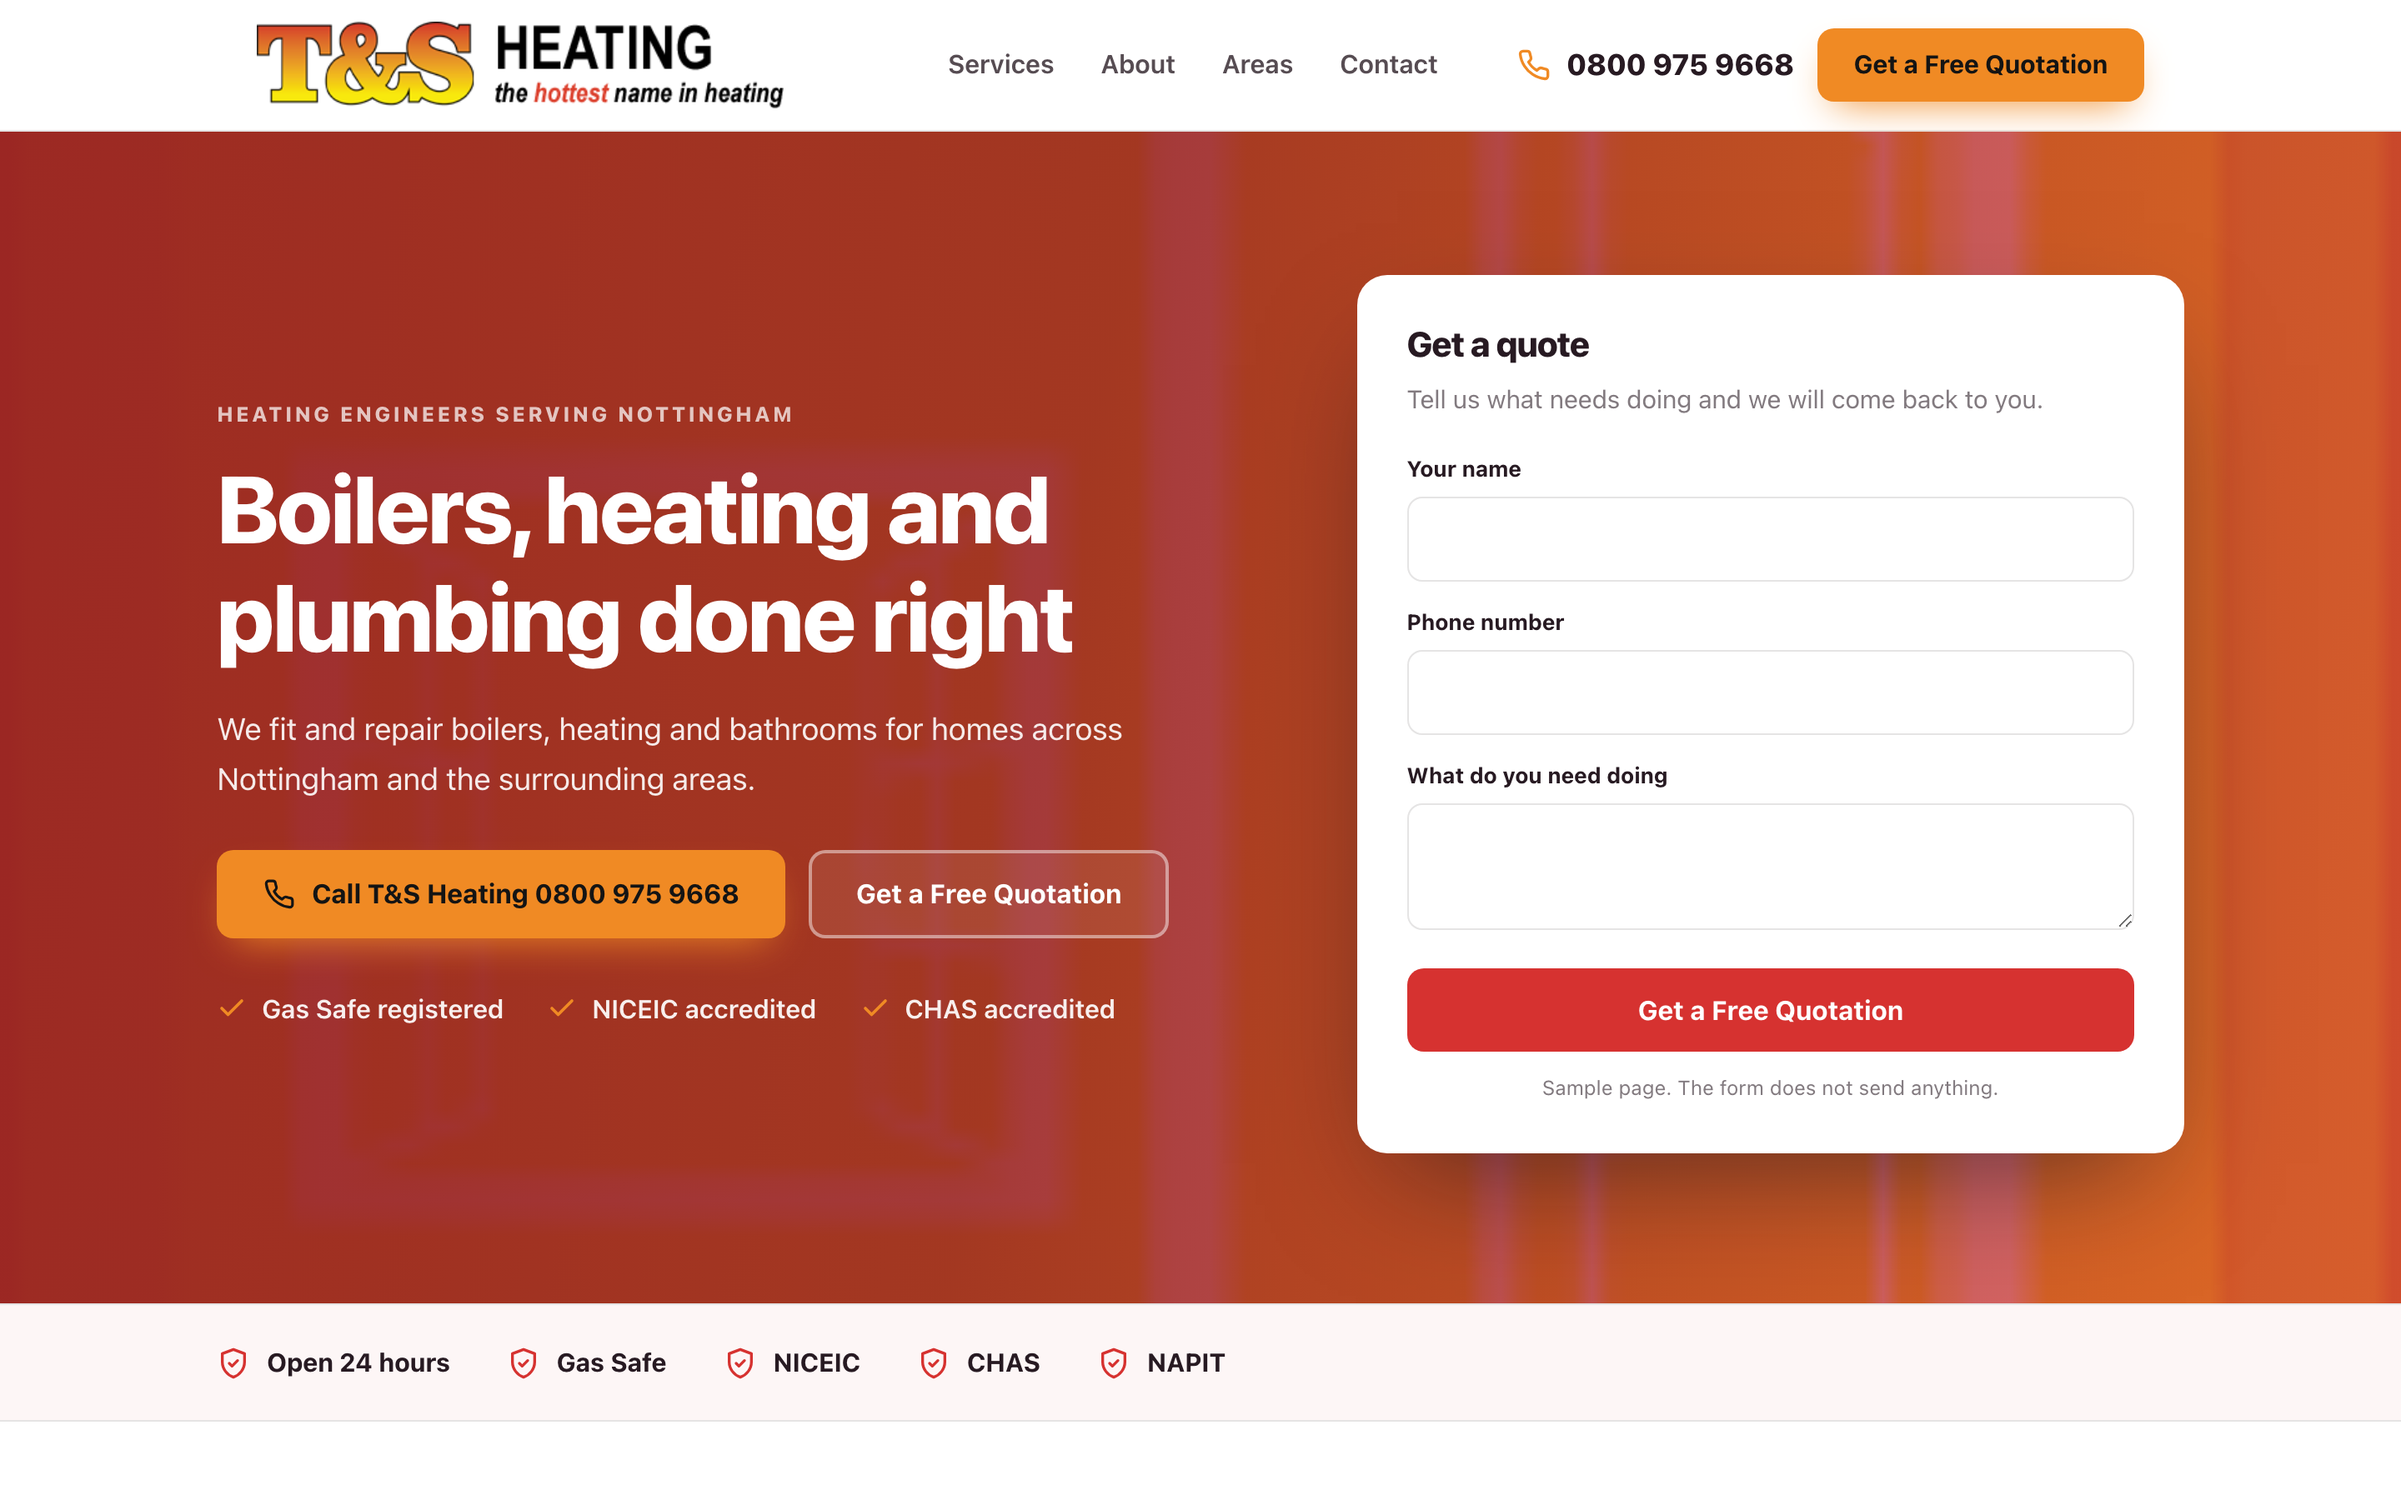
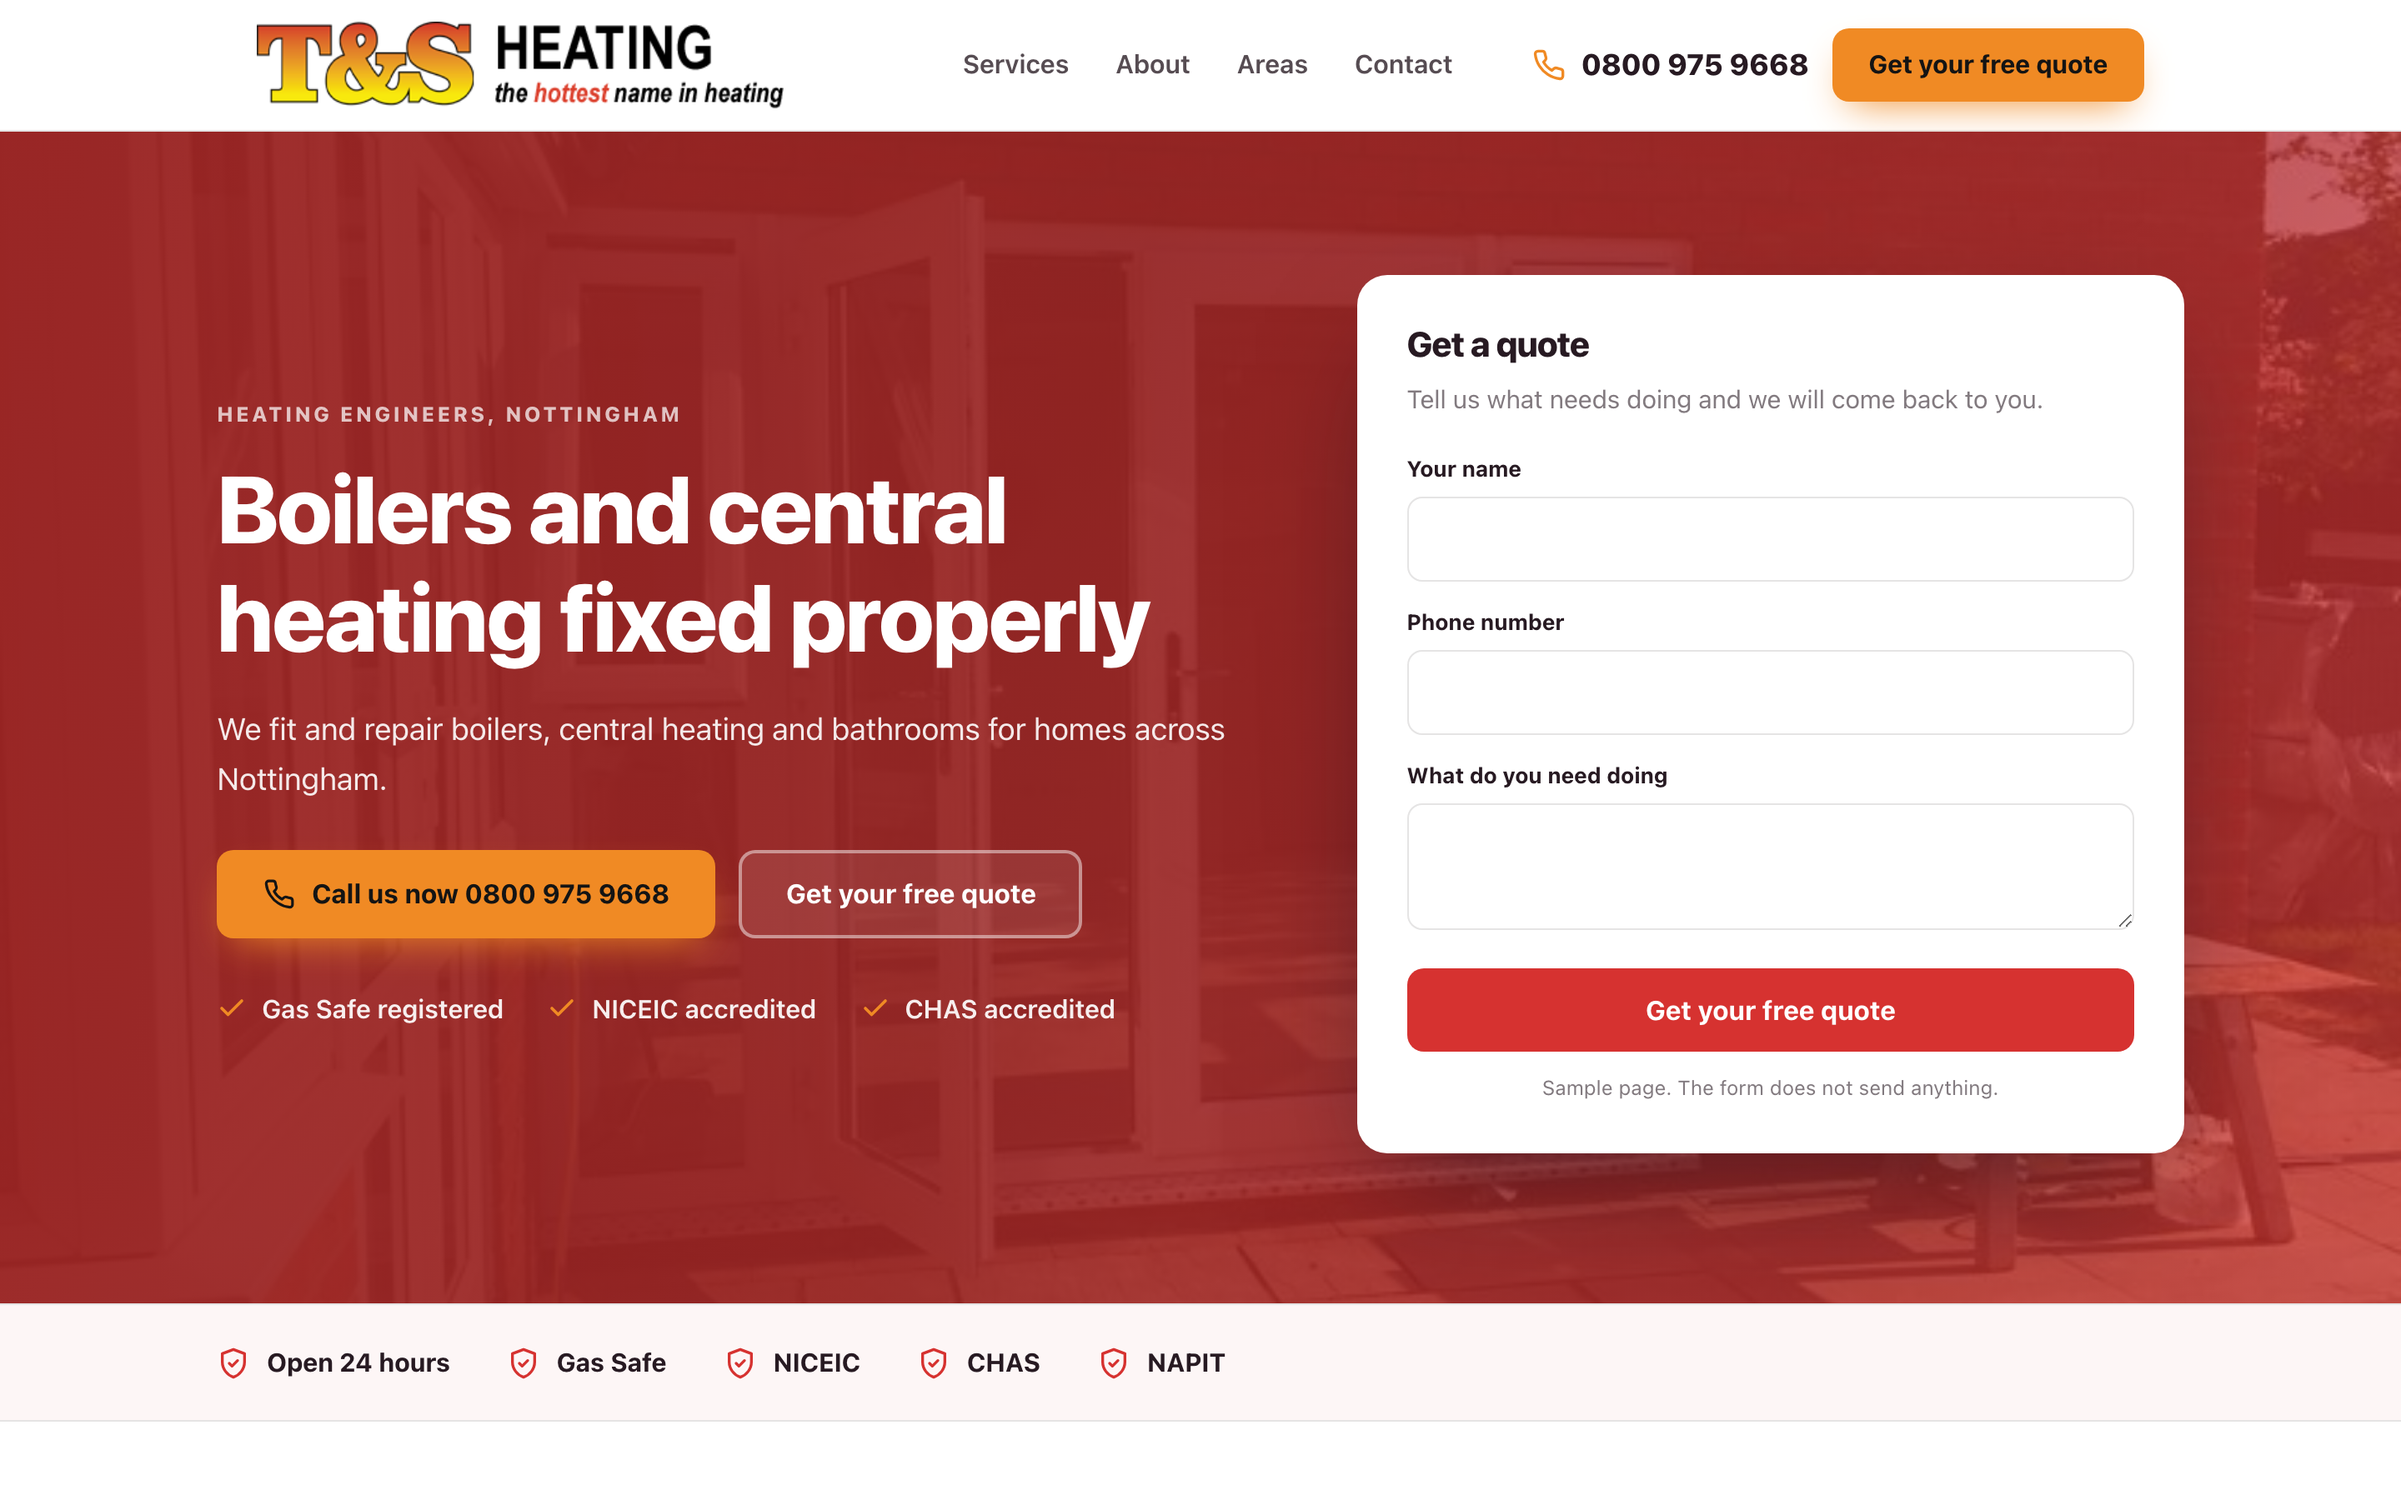
Sample homepage for T&S Heating Ltd

diff --git a/docs/2cc8a2258e/index.html b/docs/2cc8a2258e/index.html
@@ -4,14 +4,15 @@
 <meta charset="utf-8">
 <meta name="viewport" content="width=device-width, initial-scale=1">
 <meta name="robots" content="noindex,nofollow">
-<title>T&amp;S Heating sample homepage</title>
-<meta name="description" content="We fit and repair boilers, heating and bathrooms for homes across Nottingham and the surrounding areas.">
+<meta name="aso-build" content="">
+<title>T&amp;S Heating Ltd sample homepage</title>
+<meta name="description" content="We fit and repair boilers, central heating and bathrooms for homes across Nottingham.">
 <link rel="canonical" href="https://markygff.github.io/aso-mockups/2cc8a2258e/">
 <meta property="og:type" content="website">
-<meta property="og:title" content="T&amp;S Heating sample homepage">
-<meta property="og:description" content="We fit and repair boilers, heating and bathrooms for homes across Nottingham and the surrounding areas.">
+<meta property="og:title" content="T&amp;S Heating Ltd sample homepage">
+<meta property="og:description" content="We fit and repair boilers, central heating and bathrooms for homes across Nottingham.">
 <meta property="og:url" content="https://markygff.github.io/aso-mockups/2cc8a2258e/">
-<meta property="og:image" content="https://www.tsheating.co.uk/admin/resources/windowsdoors-w400.png"><style>
+<meta property="og:image" content="img/p36.jpg"><style>
 :root{
   --primary:#d63230;
   --primary-dark:#9a2423;
@@ -52,7 +53,8 @@ p{margin:0}
 .nav{display:flex;gap:28px;margin-left:auto;font-weight:600;font-size:.97rem;color:var(--ink)}
 .nav span{opacity:.78}
 .header-cta{display:flex;align-items:center;gap:14px;margin-left:28px}
-.tel{display:flex;align-items:center;gap:9px;font-weight:800;font-size:1.1rem;color:var(--ink)}
+.tel{display:flex;align-items:center;gap:9px;font-weight:800;font-size:1.1rem;
+     color:var(--ink);text-decoration:none}
 .tel svg{width:20px;height:20px;color:var(--accent)}
 .header-cta .btn{padding:12px 20px;font-size:.95rem}
 
@@ -119,27 +121,27 @@ p{margin:0}
 <header class="header">
   <div class="wrap header-in">
     <div class="brand">
-<img src="https://www.tsheating.co.uk/images/ts-logo-2.png" alt="T&amp;S Heating logo">    </div>
+<img src="img/logo.png" alt="T&amp;S Heating Ltd logo">    </div>
     <nav class="nav">
       <span>Services</span><span>About</span><span>Areas</span><span>Contact</span>
     </nav>
     <div class="header-cta">
-      <span class="tel"><svg viewBox="0 0 24 24" fill="none" stroke="currentColor" stroke-width="2" stroke-linecap="round" stroke-linejoin="round" aria-hidden="true"><path d="M22 16.9v3a2 2 0 0 1-2.2 2 19.8 19.8 0 0 1-8.6-3.1 19.5 19.5 0 0 1-6-6 19.8 19.8 0 0 1-3.1-8.7A2 2 0 0 1 4.1 2h3a2 2 0 0 1 2 1.7c.1 1 .4 1.9.7 2.8a2 2 0 0 1-.5 2.1L8.1 9.9a16 16 0 0 0 6 6l1.3-1.2a2 2 0 0 1 2.1-.5c.9.3 1.8.6 2.8.7a2 2 0 0 1 1.7 2z"/></svg><span>0800 975 9668</span></span>
-      <span class="btn btn-accent">Get a Free Quotation</span>
+      <a class="tel" href="tel:+448009759668"><svg viewBox="0 0 24 24" fill="none" stroke="currentColor" stroke-width="2" stroke-linecap="round" stroke-linejoin="round" aria-hidden="true"><path d="M22 16.9v3a2 2 0 0 1-2.2 2 19.8 19.8 0 0 1-8.6-3.1 19.5 19.5 0 0 1-6-6 19.8 19.8 0 0 1-3.1-8.7A2 2 0 0 1 4.1 2h3a2 2 0 0 1 2 1.7c.1 1 .4 1.9.7 2.8a2 2 0 0 1-.5 2.1L8.1 9.9a16 16 0 0 0 6 6l1.3-1.2a2 2 0 0 1 2.1-.5c.9.3 1.8.6 2.8.7a2 2 0 0 1 1.7 2z"/></svg><span>0800 975 9668</span></a>
+      <span class="btn btn-accent">Get your free quote</span>
     </div>
   </div>
 </header>
 
 <section class="hero">
-  <div class="hero-bg"><img src="https://www.tsheating.co.uk/admin/resources/windowsdoors-w400.png" alt="T&amp;S Heating at work" width="1600" height="900"></div>
+  <div class="hero-bg"><img src="img/p36.jpg" alt="T&amp;S Heating Ltd at work" width="1600" height="900"></div>
   <div class="wrap hero-in">
     <div>
-      <p class="eyebrow">Heating engineers serving Nottingham</p>
-      <h1>Boilers, heating and plumbing done right</h1>
-      <p class="hero-sub">We fit and repair boilers, heating and bathrooms for homes across Nottingham and the surrounding areas.</p>
+      <p class="eyebrow">Heating engineers, Nottingham</p>
+      <h1>Boilers and central heating fixed properly</h1>
+      <p class="hero-sub">We fit and repair boilers, central heating and bathrooms for homes across Nottingham.</p>
       <div class="hero-actions">
-        <span class="btn btn-accent"><svg viewBox="0 0 24 24" fill="none" stroke="currentColor" stroke-width="2" stroke-linecap="round" stroke-linejoin="round" aria-hidden="true"><path d="M22 16.9v3a2 2 0 0 1-2.2 2 19.8 19.8 0 0 1-8.6-3.1 19.5 19.5 0 0 1-6-6 19.8 19.8 0 0 1-3.1-8.7A2 2 0 0 1 4.1 2h3a2 2 0 0 1 2 1.7c.1 1 .4 1.9.7 2.8a2 2 0 0 1-.5 2.1L8.1 9.9a16 16 0 0 0 6 6l1.3-1.2a2 2 0 0 1 2.1-.5c.9.3 1.8.6 2.8.7a2 2 0 0 1 1.7 2z"/></svg>Call T&amp;S Heating 0800 975 9668</span>
-        <span class="btn btn-ghost">Get a Free Quotation</span>
+        <span class="btn btn-accent"><svg viewBox="0 0 24 24" fill="none" stroke="currentColor" stroke-width="2" stroke-linecap="round" stroke-linejoin="round" aria-hidden="true"><path d="M22 16.9v3a2 2 0 0 1-2.2 2 19.8 19.8 0 0 1-8.6-3.1 19.5 19.5 0 0 1-6-6 19.8 19.8 0 0 1-3.1-8.7A2 2 0 0 1 4.1 2h3a2 2 0 0 1 2 1.7c.1 1 .4 1.9.7 2.8a2 2 0 0 1-.5 2.1L8.1 9.9a16 16 0 0 0 6 6l1.3-1.2a2 2 0 0 1 2.1-.5c.9.3 1.8.6 2.8.7a2 2 0 0 1 1.7 2z"/></svg>Call us now 0800 975 9668</span>
+        <span class="btn btn-ghost">Get your free quote</span>
       </div>
       <ul class="hero-bullets">
 <li><svg viewBox="0 0 24 24" fill="none" stroke="currentColor" stroke-width="2.4" stroke-linecap="round" stroke-linejoin="round" aria-hidden="true"><path d="M20 6 9 17l-5-5"/></svg><span>Gas Safe registered</span></li><li><svg viewBox="0 0 24 24" fill="none" stroke="currentColor" stroke-width="2.4" stroke-linecap="round" stroke-linejoin="round" aria-hidden="true"><path d="M20 6 9 17l-5-5"/></svg><span>NICEIC accredited</span></li><li><svg viewBox="0 0 24 24" fill="none" stroke="currentColor" stroke-width="2.4" stroke-linecap="round" stroke-linejoin="round" aria-hidden="true"><path d="M20 6 9 17l-5-5"/></svg><span>CHAS accredited</span></li>      </ul>
@@ -150,7 +152,7 @@ p{margin:0}
       <div class="field"><label>Your name</label><input type="text" disabled></div>
       <div class="field"><label>Phone number</label><input type="tel" disabled></div>
       <div class="field"><label>What do you need doing</label><textarea disabled></textarea></div>
-      <span class="btn btn-primary">Get a Free Quotation</span>
+      <span class="btn btn-primary">Get your free quote</span>
       <p class="sample-note">Sample page. The form does not send anything.</p>
     </div>
   </div>
@@ -170,29 +172,29 @@ p{margin:0}
   <div class="wrap">
     <div class="services-head">
       <p class="eyebrow">What we do</p>
-      <h2>T&amp;S Heating, Nottingham</h2>
-      <p>We fit and repair boilers, heating and bathrooms for homes across Nottingham and the surrounding areas.</p>
+      <h2>T&amp;S Heating Ltd, Nottingham</h2>
+      <p>We fit and repair boilers, central heating and bathrooms for homes across Nottingham.</p>
     </div>
     <div class="grid">
       <article class="card">
         <div class="icon"><svg viewBox="0 0 24 24" fill="none" stroke="currentColor" stroke-width="2" stroke-linecap="round" stroke-linejoin="round" aria-hidden="true"><path d="M14.7 6.3a4 4 0 0 0 5.3 5.3l-8 8a3 3 0 0 1-4.2-4.2z"/><path d="m14.7 6.3 3-3"/></svg></div>
         <h3>Central Heating</h3>
-        <p>We install and repair central heating systems for homes across Nottingham.</p>
+        <p>We install and repair central heating systems in homes across Nottingham.</p>
       </article>
       <article class="card">
         <div class="icon"><svg viewBox="0 0 24 24" fill="none" stroke="currentColor" stroke-width="2" stroke-linecap="round" stroke-linejoin="round" aria-hidden="true"><path d="M13 2 4 14h7l-1 8 9-12h-7z"/></svg></div>
-        <h3>Boilers</h3>
-        <p>Boiler replacement, repair and servicing from qualified engineers.</p>
+        <h3>Boiler Repair</h3>
+        <p>Fast, reliable repairs when your boiler breaks down.</p>
       </article>
       <article class="card">
         <div class="icon"><svg viewBox="0 0 24 24" fill="none" stroke="currentColor" stroke-width="2" stroke-linecap="round" stroke-linejoin="round" aria-hidden="true"><path d="M3 10.5 12 3l9 7.5"/><path d="M5 9.5V21h14V9.5"/><path d="M10 21v-6h4v6"/></svg></div>
         <h3>Plumbing</h3>
-        <p>We handle leaking pipes and radiators with a fast response.</p>
+        <p>We fix leaks, pipes and radiators without the wait.</p>
       </article>
       <article class="card">
         <div class="icon"><svg viewBox="0 0 24 24" fill="none" stroke="currentColor" stroke-width="2" stroke-linecap="round" stroke-linejoin="round" aria-hidden="true"><path d="M4 20 15 9"/><path d="m14 4 6 6-3 3-6-6z"/><path d="m3 15 6 6"/></svg></div>
-        <h3>Electrical</h3>
-        <p>We handle electrical installation and repair work for homes and businesses.</p>
+        <h3>Fitted Bathrooms</h3>
+        <p>We fit bathrooms to a high standard, start to finish.</p>
       </article>
     </div>
   </div>
@@ -200,7 +202,7 @@ p{margin:0}
 
 <footer class="footer">
   <div class="wrap footer-in">
-    <span>Sample built for T&amp;S Heating from your public website. Not live. Tell us and we delete it.</span>
+    <span>Sample built for T&amp;S Heating Ltd from your public website. Not live. Tell us and we delete it.</span>
     <span>tsheating.co.uk</span>
   </div>
 </footer>
